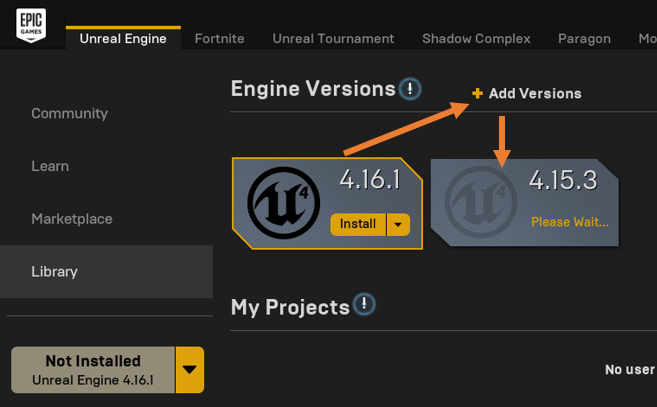
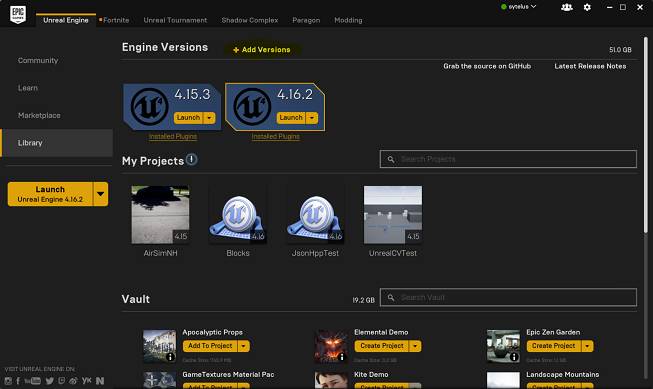
switch to Unreal 4.16

diff --git a/Unreal/Plugins/AirSim/Source/AirSim.Build.4.15.cs b/Unreal/Plugins/AirSim/Source/AirSim.Build.4.15.cs
@@ -26,7 +26,7 @@ public class AirSim : ModuleRules
         CppCompileWithRpc
     }
 
-    private void SetupCompileMode(CompileMode mode, ReadOnlyTargetRules Target)
+    private void SetupCompileMode(CompileMode mode, TargetInfo Target)
     {
         LoadAirSimDependency(Target, "MavLinkCom", "MavLinkCom");
 
@@ -47,6 +47,7 @@ public class AirSim : ModuleRules
                 Definitions.Add("AIRLIB_NO_RPC=1");
                 break;
             case CompileMode.CppCompileWithRpc:
+                LoadAirSimDependency(Target, "MavLinkCom", "MavLinkCom");
                 LoadAirSimDependency(Target, "rpclib", "rpc");
                 break;
             default:
@@ -55,11 +56,10 @@ public class AirSim : ModuleRules
 
     }
 
-    public AirSim(ReadOnlyTargetRules Target) : base(Target)
+    public AirSim(TargetInfo Target)
     {
-        //bEnforceIWYU = true; //to support 4.16
+        bEnforceIWYU = false;
         PCHUsage = PCHUsageMode.UseExplicitOrSharedPCHs;
-        //below is no longer supported in 4.16
         bEnableExceptions = true;
 
         PublicDependencyModuleNames.AddRange(new string[] { "Core", "CoreUObject", "Engine", "InputCore", "RenderCore", "RHI" });
@@ -73,10 +73,10 @@ public class AirSim : ModuleRules
         PrivateIncludePaths.Add(Path.Combine(AirSimPath, "deps", "eigen3"));
         AddOSLibDependencies(Target);
 
-        SetupCompileMode(CompileMode.CppCompileWithRpc, Target);
+        SetupCompileMode(CompileMode.HeaderOnlyWithRpc, Target);
     }
 
-    private void AddOSLibDependencies(ReadOnlyTargetRules Target)
+    private void AddOSLibDependencies(TargetInfo Target)
     {
         if (Target.Platform == UnrealTargetPlatform.Win64)
         {
@@ -92,13 +92,13 @@ public class AirSim : ModuleRules
         }
     }
 
-    private bool LoadAirSimDependency(ReadOnlyTargetRules Target, string LibName, string LibFileName)
+    private bool LoadAirSimDependency(TargetInfo Target, string LibName, string LibFileName)
     {
         string LibrariesPath = Path.Combine(AirSimPath, "deps", LibName, "lib");
         return AddLibDependency(LibName, LibrariesPath, LibFileName, Target, true);
     }
 
-    private bool AddLibDependency(string LibName, string LibPath, string LibFileName, ReadOnlyTargetRules Target, bool IsAddLibInclude)
+    private bool AddLibDependency(string LibName, string LibPath, string LibFileName, TargetInfo Target, bool IsAddLibInclude)
     {
         string PlatformString = (Target.Platform == UnrealTargetPlatform.Win64 || Target.Platform == UnrealTargetPlatform.Mac) ? "x64" : "x86";
         string ConfigurationString = (Target.Configuration == UnrealTargetConfiguration.Debug) ? "Debug" : "Release";
@@ -108,7 +108,6 @@ public class AirSim : ModuleRules
         if (Target.Platform == UnrealTargetPlatform.Win64)
         {
             isLibrarySupported = true;
-
             PublicAdditionalLibraries.Add(Path.Combine(LibPath, PlatformString, ConfigurationString, LibFileName + ".lib"));
         } else if (Target.Platform == UnrealTargetPlatform.Linux || Target.Platform == UnrealTargetPlatform.Mac) {
             isLibrarySupported = true;

diff --git a/Unreal/Plugins/AirSim/Source/AirSim.Build.cs b/Unreal/Plugins/AirSim/Source/AirSim.Build.cs
@@ -26,7 +26,7 @@ public class AirSim : ModuleRules
         CppCompileWithRpc
     }
 
-    private void SetupCompileMode(CompileMode mode, TargetInfo Target)
+    private void SetupCompileMode(CompileMode mode, ReadOnlyTargetRules Target)
     {
         LoadAirSimDependency(Target, "MavLinkCom", "MavLinkCom");
 
@@ -47,7 +47,6 @@ public class AirSim : ModuleRules
                 Definitions.Add("AIRLIB_NO_RPC=1");
                 break;
             case CompileMode.CppCompileWithRpc:
-                LoadAirSimDependency(Target, "MavLinkCom", "MavLinkCom");
                 LoadAirSimDependency(Target, "rpclib", "rpc");
                 break;
             default:
@@ -56,10 +55,11 @@ public class AirSim : ModuleRules
 
     }
 
-    public AirSim(TargetInfo Target)
+    public AirSim(ReadOnlyTargetRules Target) : base(Target)
     {
-        bEnforceIWYU = false;
+        //bEnforceIWYU = true; //to support 4.16
         PCHUsage = PCHUsageMode.UseExplicitOrSharedPCHs;
+        //below is no longer supported in 4.16
         bEnableExceptions = true;
 
         PublicDependencyModuleNames.AddRange(new string[] { "Core", "CoreUObject", "Engine", "InputCore", "RenderCore", "RHI" });
@@ -73,10 +73,10 @@ public class AirSim : ModuleRules
         PrivateIncludePaths.Add(Path.Combine(AirSimPath, "deps", "eigen3"));
         AddOSLibDependencies(Target);
 
-        SetupCompileMode(CompileMode.HeaderOnlyWithRpc, Target);
+        SetupCompileMode(CompileMode.CppCompileWithRpc, Target);
     }
 
-    private void AddOSLibDependencies(TargetInfo Target)
+    private void AddOSLibDependencies(ReadOnlyTargetRules Target)
     {
         if (Target.Platform == UnrealTargetPlatform.Win64)
         {
@@ -92,13 +92,13 @@ public class AirSim : ModuleRules
         }
     }
 
-    private bool LoadAirSimDependency(TargetInfo Target, string LibName, string LibFileName)
+    private bool LoadAirSimDependency(ReadOnlyTargetRules Target, string LibName, string LibFileName)
     {
         string LibrariesPath = Path.Combine(AirSimPath, "deps", LibName, "lib");
         return AddLibDependency(LibName, LibrariesPath, LibFileName, Target, true);
     }
 
-    private bool AddLibDependency(string LibName, string LibPath, string LibFileName, TargetInfo Target, bool IsAddLibInclude)
+    private bool AddLibDependency(string LibName, string LibPath, string LibFileName, ReadOnlyTargetRules Target, bool IsAddLibInclude)
     {
         string PlatformString = (Target.Platform == UnrealTargetPlatform.Win64 || Target.Platform == UnrealTargetPlatform.Mac) ? "x64" : "x86";
         string ConfigurationString = (Target.Configuration == UnrealTargetConfiguration.Debug) ? "Debug" : "Release";
@@ -108,6 +108,7 @@ public class AirSim : ModuleRules
         if (Target.Platform == UnrealTargetPlatform.Win64)
         {
             isLibrarySupported = true;
+
             PublicAdditionalLibraries.Add(Path.Combine(LibPath, PlatformString, ConfigurationString, LibFileName + ".lib"));
         } else if (Target.Platform == UnrealTargetPlatform.Linux || Target.Platform == UnrealTargetPlatform.Mac) {
             isLibrarySupported = true;

diff --git a/Unreal/Environments/Blocks/Source/BlocksEditor.Target.cs b/Unreal/Environments/Blocks/Source/BlocksEditor.Target.cs
@@ -5,21 +5,9 @@ using System.Collections.Generic;
 
 public class BlocksEditorTarget : TargetRules
 {
-	public BlocksEditorTarget(TargetInfo Target)
+	public BlocksEditorTarget(TargetInfo Target) : base(Target)
 	{
 		Type = TargetType.Editor;
-	}
-
-	//
-	// TargetRules interface.
-	//
-
-	public override void SetupBinaries(
-		TargetInfo Target,
-		ref List<UEBuildBinaryConfiguration> OutBuildBinaryConfigurations,
-		ref List<string> OutExtraModuleNames
-		)
-	{
-		OutExtraModuleNames.Add("Blocks");
+		ExtraModuleNames.AddRange(new string[] { "Blocks" });
 	}
 }

diff --git a/Unreal/Environments/Blocks/Source/Blocks.Target.cs b/Unreal/Environments/Blocks/Source/Blocks.Target.cs
@@ -5,21 +5,9 @@ using System.Collections.Generic;
 
 public class BlocksTarget : TargetRules
 {
-	public BlocksTarget(TargetInfo Target)
+	public BlocksTarget(TargetInfo Target) : base(Target)
 	{
 		Type = TargetType.Game;
-	}
-
-	//
-	// TargetRules interface.
-	//
-
-	public override void SetupBinaries(
-		TargetInfo Target,
-		ref List<UEBuildBinaryConfiguration> OutBuildBinaryConfigurations,
-		ref List<string> OutExtraModuleNames
-		)
-	{
-		OutExtraModuleNames.Add("Blocks");
+		ExtraModuleNames.AddRange(new string[] { "Blocks" });
 	}
 }

diff --git a/Unreal/Environments/Blocks/Source/BlocksEditor.Target.4.15.cs b/Unreal/Environments/Blocks/Source/BlocksEditor.Target.4.15.cs
@@ -1,0 +1,25 @@
+// Copyright 1998-2017 Epic Games, Inc. All Rights Reserved.
+
+using UnrealBuildTool;
+using System.Collections.Generic;
+
+public class BlocksEditorTarget : TargetRules
+{
+	public BlocksEditorTarget(TargetInfo Target)
+	{
+		Type = TargetType.Editor;
+	}
+
+	//
+	// TargetRules interface.
+	//
+
+	public override void SetupBinaries(
+		TargetInfo Target,
+		ref List<UEBuildBinaryConfiguration> OutBuildBinaryConfigurations,
+		ref List<string> OutExtraModuleNames
+		)
+	{
+		OutExtraModuleNames.Add("Blocks");
+	}
+}

diff --git a/Unreal/Environments/Blocks/Source/Blocks.Target.4.15.cs b/Unreal/Environments/Blocks/Source/Blocks.Target.4.15.cs
@@ -1,0 +1,25 @@
+// Copyright 1998-2017 Epic Games, Inc. All Rights Reserved.
+
+using UnrealBuildTool;
+using System.Collections.Generic;
+
+public class BlocksTarget : TargetRules
+{
+	public BlocksTarget(TargetInfo Target)
+	{
+		Type = TargetType.Game;
+	}
+
+	//
+	// TargetRules interface.
+	//
+
+	public override void SetupBinaries(
+		TargetInfo Target,
+		ref List<UEBuildBinaryConfiguration> OutBuildBinaryConfigurations,
+		ref List<string> OutExtraModuleNames
+		)
+	{
+		OutExtraModuleNames.Add("Blocks");
+	}
+}

diff --git a/Unreal/Environments/Blocks/Source/Blocks/Blocks.Build.4.15.cs b/Unreal/Environments/Blocks/Source/Blocks/Blocks.Build.4.15.cs
@@ -4,7 +4,7 @@ using UnrealBuildTool;
 
 public class Blocks : ModuleRules
 {
-	public Blocks(ReadOnlyTargetRules Target) : base(Target)
+	public Blocks(TargetInfo Target)
 	{
 		PublicDependencyModuleNames.AddRange(new string[] { "Core", "CoreUObject", "Engine", "InputCore" });
 	}

diff --git a/Unreal/Environments/Blocks/Source/Blocks/Blocks.Build.cs b/Unreal/Environments/Blocks/Source/Blocks/Blocks.Build.cs
@@ -4,7 +4,7 @@ using UnrealBuildTool;
 
 public class Blocks : ModuleRules
 {
-	public Blocks(TargetInfo Target)
+	public Blocks(ReadOnlyTargetRules Target) : base(Target)
 	{
 		PublicDependencyModuleNames.AddRange(new string[] { "Core", "CoreUObject", "Engine", "InputCore" });
 	}

diff --git a/docs/unreal_upgrade.md b/docs/unreal_upgrade.md
@@ -1,12 +1,29 @@
+
 # Upgrading Unreal Engine Version
+# Upgrading to Unreal 4.16
 
-If you are using old version of AirSim with Unreal Engine 4.14 or earlier, please use below steps to upgrade to 4.15.
+If you are using old version of AirSim with Unreal Engine 4.15 or earlier, here are some notes. More complete details are at [Unreal forum post](https://forums.unrealengine.com/showthread.php?145757-C-4-16-Transition-Guide).
 
-1. Windows + S and type Epic Games Launcher.
-2. Switch to Library tab on the right.
-3. Click on Add Version in Engine Versions section and select 4.15.
-4. Click on Install. This would typically take few minutes because of large download.
-5. Once install is complete, Launch button will appear. Click on it to launch UE Editor.
-6. In UE Editor you should see your Unreal project bit greyed out. If you don't then use the browse button to navigate to your .uproject file.
-7. Double click on the project. A warning might appear saying that there might be incompatibility. The warning box might show only "Open Copy" button. Don't click that. Instead click on More Options which will reveal more buttons. Choose Convert-In-Place option. Causion: Always keep backup of your project first!
-8. If you don't have anything nasty, in place conversion should go through and you are now on new version of Unreal!
+**Note:** If you are using Blocks project that comes with AirSim then you don't need to do anything other than [installling Unreal 4.16](build.md).
+
+If you have your own Unreal project using AirSim plugin then you need to upgrade your project to use Unreal 4.16. If your project doesn't have any code or assets other than environment you downloaded then you can also simply [recreate the project in Unreal 4.16 Editor](unreal_custenv.md) and then copy Plugins folder from `AirSim/Unreal/Plugins`. Alternativly, follow below instructions.
+
+Unreal 4.16 Build system has breaking changes. So you need to modify your *.Build.cs and *.Target.cs which you can find in `Source` folder of your Unreal project. So what are those changes? Below is the gist of it but you should really refer to [Unreal's official 4.16 transition post](https://forums.unrealengine.com/showthread.php?145757-C-4-16-Transition-Guide).
+
+### In your project's *.Target.cs
+1. Change the contructor from, `public MyProjectTarget(TargetInfo Target)` to `public MyProjectTarget(TargetInfo Target) : base(Target)`
+
+2. Remove `SetupBinaries` method if you have one and instead add following line in contructor above: `ExtraModuleNames.AddRange(new string[] { "MyProject" });`
+
+### In your project's *.Build.cs
+Change the constructor from `public MyProject(TargetInfo Target)` to `public MyProject(ReadOnlyTargetRules Target) : base(Target)`.
+
+### In your *.uproject
+Remove line for `EngineAssociation`
+
+### And finally...
+1. Make sure [Unreal 4.16 is installed](build,md).
+2. Double click on your project's `*.uproject` file.
+3. If you are asked to select Unreal version, select 4.16.
+4. The warning box might show only "Open Copy" button. Don't click that. Instead click on More Options which will reveal more buttons. Choose Convert-In-Place option. Causion: Always keep backup of your project first!
+5. If you don't have anything nasty, in place conversion should go through and you are now on new version of Unreal!

diff --git a/docs/linux_build.md b/docs/linux_build.md
@@ -6,10 +6,10 @@ Our current recommanded and tested environment is **Ubuntu 16.04 LTS**. Theorati
 It's super simple 1-2-3!
 
 1. Make sure you are [registered with Epic Games](https://docs.unrealengine.com/latest/INT/Platforms/Linux/BeginnerLinuxDeveloper/SettingUpAnUnrealWorkflow/1/index.html). This is required so you can get Unreal engine's source code.
-2. Clone Unreal in your favorite folder and run setup.sh (this may take a while!)
+2. Clone Unreal in your favorite folder and run setup.sh (this may take a while!). Note: We only support Unreal 4.16 and newer.
 ```
      mkdir -p GitHubSrc && cd GitHubSrc
-     git clone -b 4.15 https://github.com/EpicGames/UnrealEngine.git
+     git clone -b 4.16 https://github.com/EpicGames/UnrealEngine.git
      cd UnrealEngine
      ./Setup.sh
      ./GenerateProjectFiles.sh
@@ -57,7 +57,7 @@ You can use Qt or CodeLite. Instructions for Qt Creator is [available here](http
 Yes, you can but we haven't tested it. You can find [instructions here](https://docs.unrealengine.com/latest/INT/Platforms/Linux/GettingStarted/index.html).
 
 #### What compiler and stdlib AirSim uses?
-We use same compiler that Unreal uses which is Clang 3.9 for Unreal 4.15 nd Clang 4.0 for Unreal 4.16. AirSim's `setup.sh` will automatically download Clang 3.9. We also need to use libc++ that Unreal uses. The libc++ code is cloned by AirSim's `setup.sh` in to `llvm-source` folder and built in `llvm-build` folder. The cmake is the instructed to use libc++ from `llvm-build` folder. For other flavors of Linux and more info, please see [http://apt.llvm.org/](http://apt.llvm.org/).
+We use same compiler that Unreal uses which is Clang 3.9. AirSim's `setup.sh` will automatically download Clang 3.9. We also need to use libc++ that Unreal uses. The libc++ code is cloned by AirSim's `setup.sh` in to `llvm-source` folder and built in `llvm-build` folder. The cmake is the instructed to use libc++ from `llvm-build` folder. For other flavors of Linux and more info, please see [http://apt.llvm.org/](http://apt.llvm.org/).
 
 #### Can use AirSim with Unreal 4.16?
 Yes! The `*.Build.cs` files are, however, no longer compatible (you will get compile error). You can find files for 4.16 as `*.Build.4.16.cs` so just rename those. 

diff --git a/docs/build.md b/docs/build.md
@@ -2,17 +2,12 @@
 **Make sure you have read the [prerequisites](prereq.md).**
 
 ## Install Unreal Engine
-  1. Download the Unreal 4 engine from [unreal.com](https://www.unrealengine.com/dashboard). While the Unreal Engine is open source, cross platform and free to download, registration is still required as of this writing. 
-  You need version 4.15. To get version 4.15 you may need to expand "Add versions" as shown below:
+  1. Download Epic Games Launcher from [unreal.com](https://www.unrealengine.com/download). While the Unreal Engine is open source, cross platform and free to download, registration is still required. Run Epic Games Launcher, switch to Library tab on the left, click on the "Add Versions" which should show the option to download Unreal 4.16 as shown below.
+
+  **Note**: Older versions of Unreal is not supported. Some tips to upgrade your projects can be found [here](unreal_upgrade.md).
 
   ![Unreal Versions](images/unreal_versions.png)
-
-  **Note for 4.14 users**: If you had been using 4.14 or lower version with AirSim then upgrade is [simple and straight forward](unreal_upgrade.md).
   
-  2. After the download, run the Epic Game Launcher and click the big yellow "Install" button under the Unreal Engine tab. 
- 
-  ![Epic launcher install](images/epic_launcher_install.png).
-
 ## Get the Code and Build
 
 ### Windows

diff --git a/docs/unreal_custenv.md b/docs/unreal_custenv.md
@@ -3,7 +3,7 @@
 This page contains the complete instructions start to finish for setting up a free downloadable unreal environment
 with AirSim.  This document goes with the [Unreal AirSim Setup Video](https://youtu.be/1oY8Qu5maQQ).
 
-First, make sure Unreal 4.15 is installed as per [build instructions](build.md) then make sure the 4.15 version 
+First, make sure Unreal is installed as per [build instructions](build.md) then make sure the 4.16 version 
 is set as the `current` version in the Epic Games Launcher, like this:
 
 ![current version](images/current_version.png)
@@ -50,7 +50,7 @@ Now edit the `LandscapeMountains.uproject` so that it looks like this
 ````
 {
 	"FileVersion": 3,
-	"EngineAssociation": "4.15",
+	"EngineAssociation": "4.16",
 	"Category": "Samples",
 	"Description": "",
 	"Modules": [
